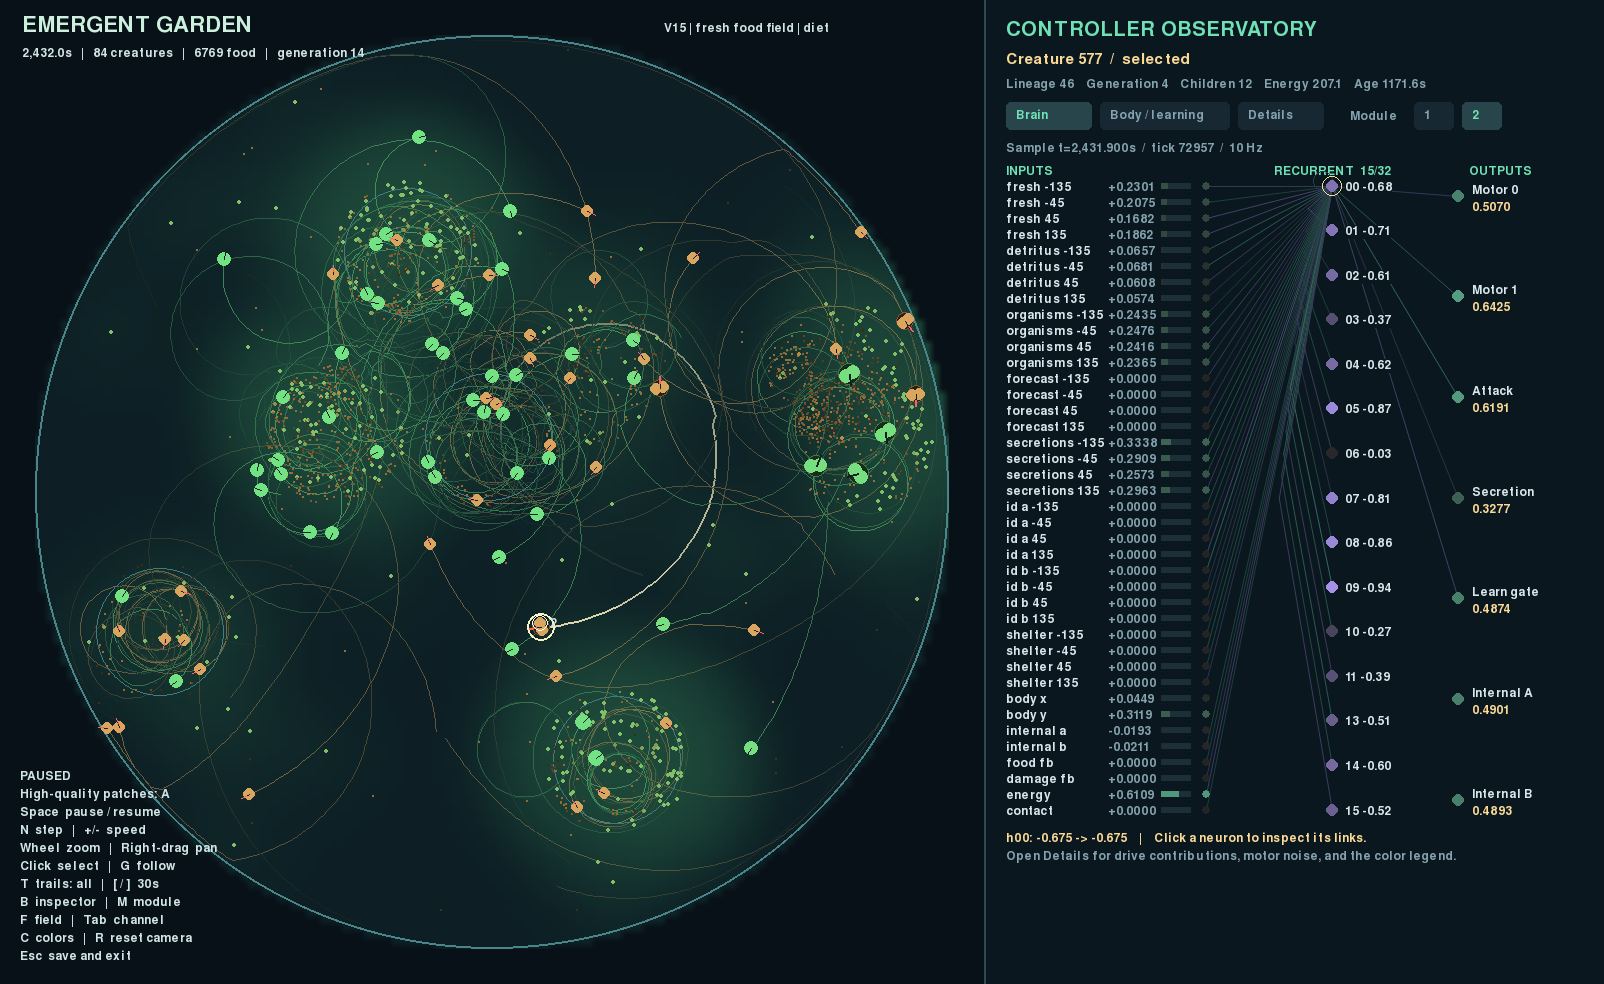
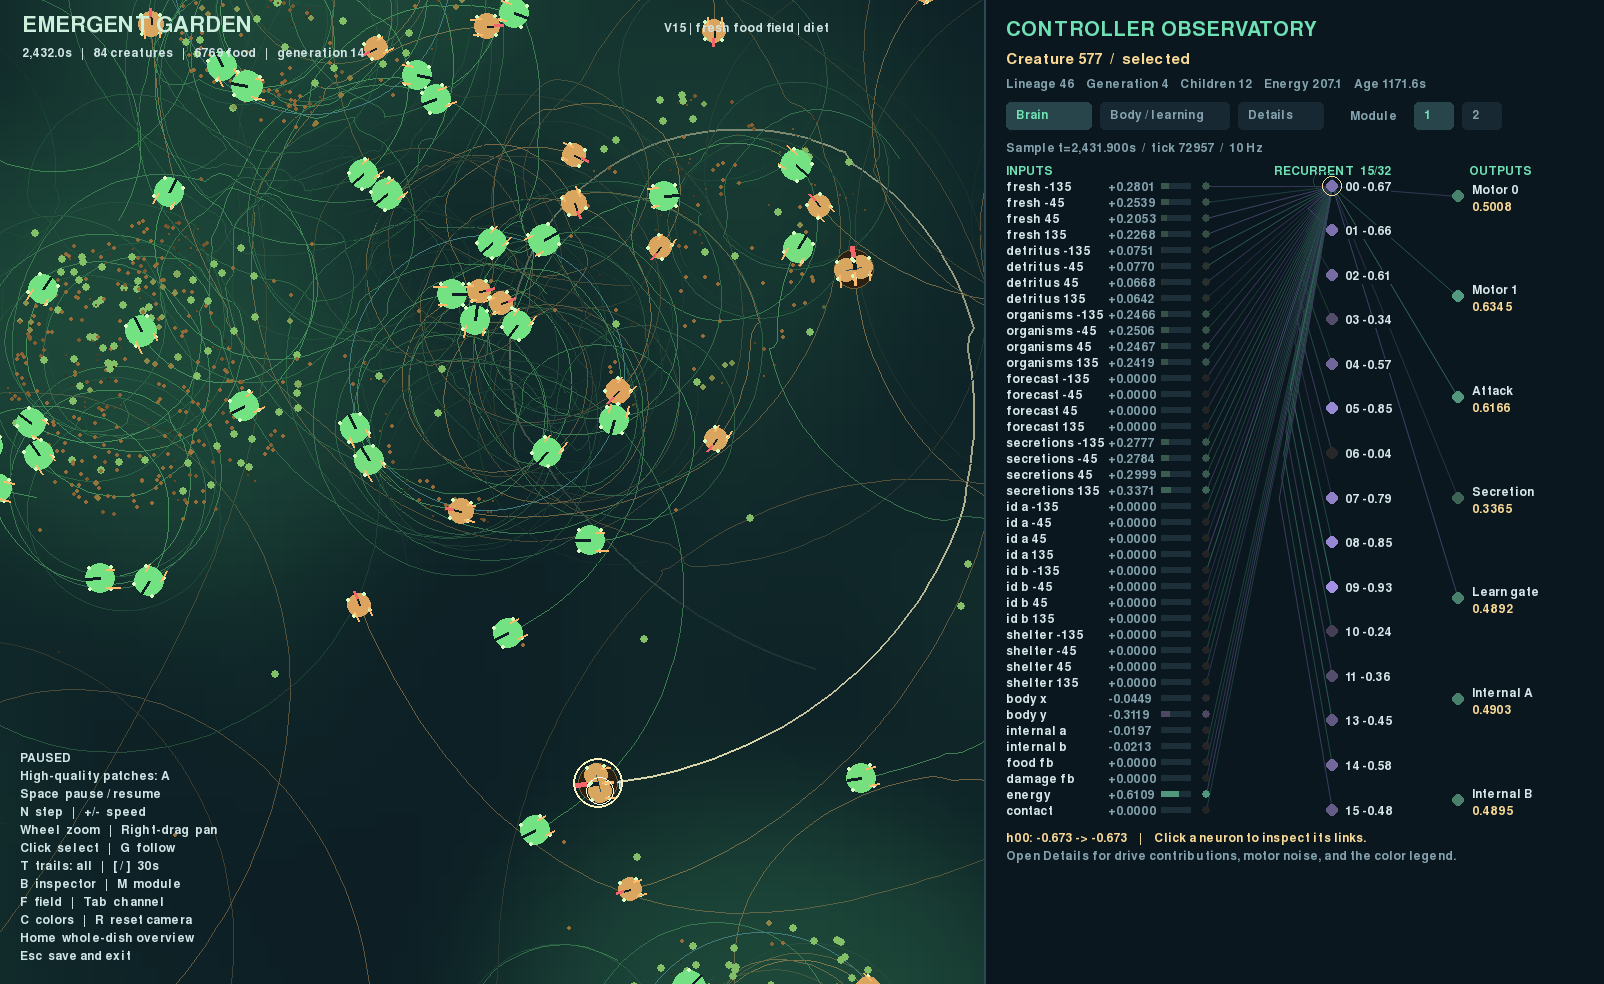
Start the live viewer inside the circular habitat

diff --git a/emergent_garden/viewer.py b/emergent_garden/viewer.py
@@ -322,6 +322,7 @@ class Renderer:
                 "B  inspector   |   M  module",
                 "F  field   |   Tab  channel",
                 "C  colors   |   R  reset camera",
+                "Home  whole-dish overview",
                 "Esc  save and exit",
             ]
         if c.ecology_version >= 6:
@@ -344,6 +345,7 @@ class Viewer(Renderer):
         # Fit the initial window to the desktop, including the inspector.
         size = min(size, max(256, desktop[1] - 96), max(256, desktop[0] - Inspector.width - 48))
         super().__init__(size)
+        self.zoom = self.default_zoom
         self.inspector = Inspector()
         self.observer = ControllerObserver()
         self.observed_world = None
@@ -356,6 +358,12 @@ class Viewer(Renderer):
         self.drag = None
         self.following = False
         self.step_ticks = 0
+
+    @property
+    def default_zoom(self):
+        # At startup the projected dish radius equals one viewing-panel width.
+        # This covers the panel's corners while leaving enough habitat visible.
+        return 2 * self.size / (self.size - 70)
 
     def observe(self, world):
         super().observe(world)
@@ -374,7 +382,9 @@ class Viewer(Renderer):
 
     def resize(self, width, height):
         sidebar = Inspector.width if self.show_brain else 0
+        relative_zoom = self.zoom / self.default_zoom
         self.size = max(128, min(height, width - sidebar))
+        self.zoom = min(8, max(1, relative_zoom * self.default_zoom))
         self.surface = pygame.Surface((self.size, self.size))
         self.trail_layer = pygame.Surface((self.size, self.size), pygame.SRCALPHA)
         self.window = pygame.display.set_mode((self.size + sidebar, self.size), pygame.RESIZABLE)
@@ -435,6 +445,8 @@ class Viewer(Renderer):
                 elif event.key == pygame.K_c:
                     self.color_mode = "lineage" if self.color_mode == "diet" else "diet"
                 elif event.key == pygame.K_r:
+                    self.zoom, self.center, self.following = self.default_zoom, None, False
+                elif event.key == pygame.K_HOME:
                     self.zoom, self.center, self.following = 1, None, False
             elif event.type == pygame.MOUSEWHEEL:
                 if not self.show_brain or pygame.mouse.get_pos()[0] < self.size:

diff --git a/README.md b/README.md
@@ -179,11 +179,17 @@ Omitting `--config` preserves the original V0 defaults (256 fixed-body creatures
 | `C` | Switch between inherited diet and lineage colors |
 | `B` | Hide/show the inspector sidebar |
 | Brain / Body / Details buttons | Switch between the network, morphology/weight maps, and diagnostics |
-| `R` | Reset the camera and stop following |
+| `R` | Restore the initial close view and stop following |
+| Home | Center and fit the entire circular dish |
 | Escape / close window | Save and exit |
 
 The Pygame viewer opens with trails and an inspector sidebar. The window is
-resizable and initially fits the desktop. The header has a transparent background,
+resizable and initially fits the desktop. The live camera starts centered and
+zoomed in so the circular dish's radius is one viewing-panel width, putting its
+boundary beyond the screen. This changes the view, not the habitat's physical
+size or food density. Scroll to adjust zoom, use Home for a whole-dish overview,
+or `R` to restore the initial view. Recordings and saved previews keep the overview.
+The header has a transparent background,
 and controls are stacked at the bottom left. The inspector adapts to the window's
 height without scrolling. Trails follow body centers, are sampled
 at 5 Hz of **simulated time**, and freeze when paused. They also appear in new

diff --git a/HANDOFF.md b/HANDOFF.md
@@ -15,6 +15,9 @@ inherited/acquired/effective weight maps, follow-camera, and paused stepping.
 The header background is transparent and controls are stacked at the bottom left.
 The inspector fits the window without scrolling; the Details tab holds the drive
 breakdown and legend, and graph spacing and weight-map sizes adapt to the height.
+The live viewer starts centered with a projected dish radius of one panel width,
+filling the screen with habitat. `R` restores this view and Home fits the whole
+dish. The physical circular world and recording framing are unchanged.
 Trails sample simulation time at 5 Hz, retain up to 120 seconds, and also appear
 in new recordings. The default visible duration is 30 seconds.
 
